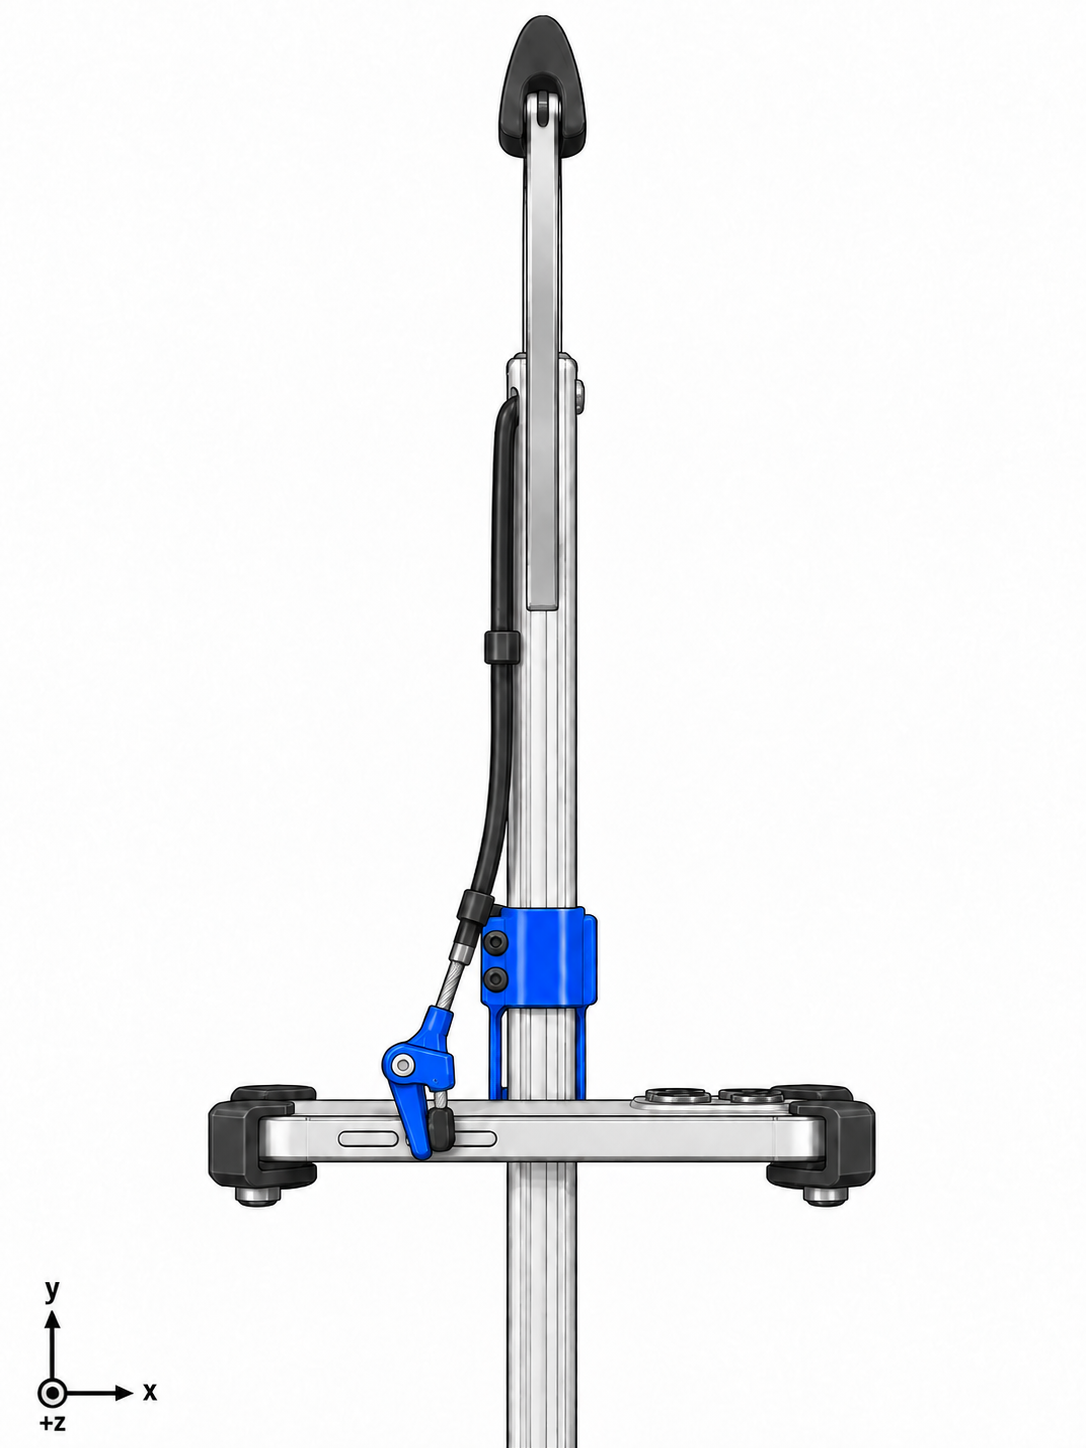
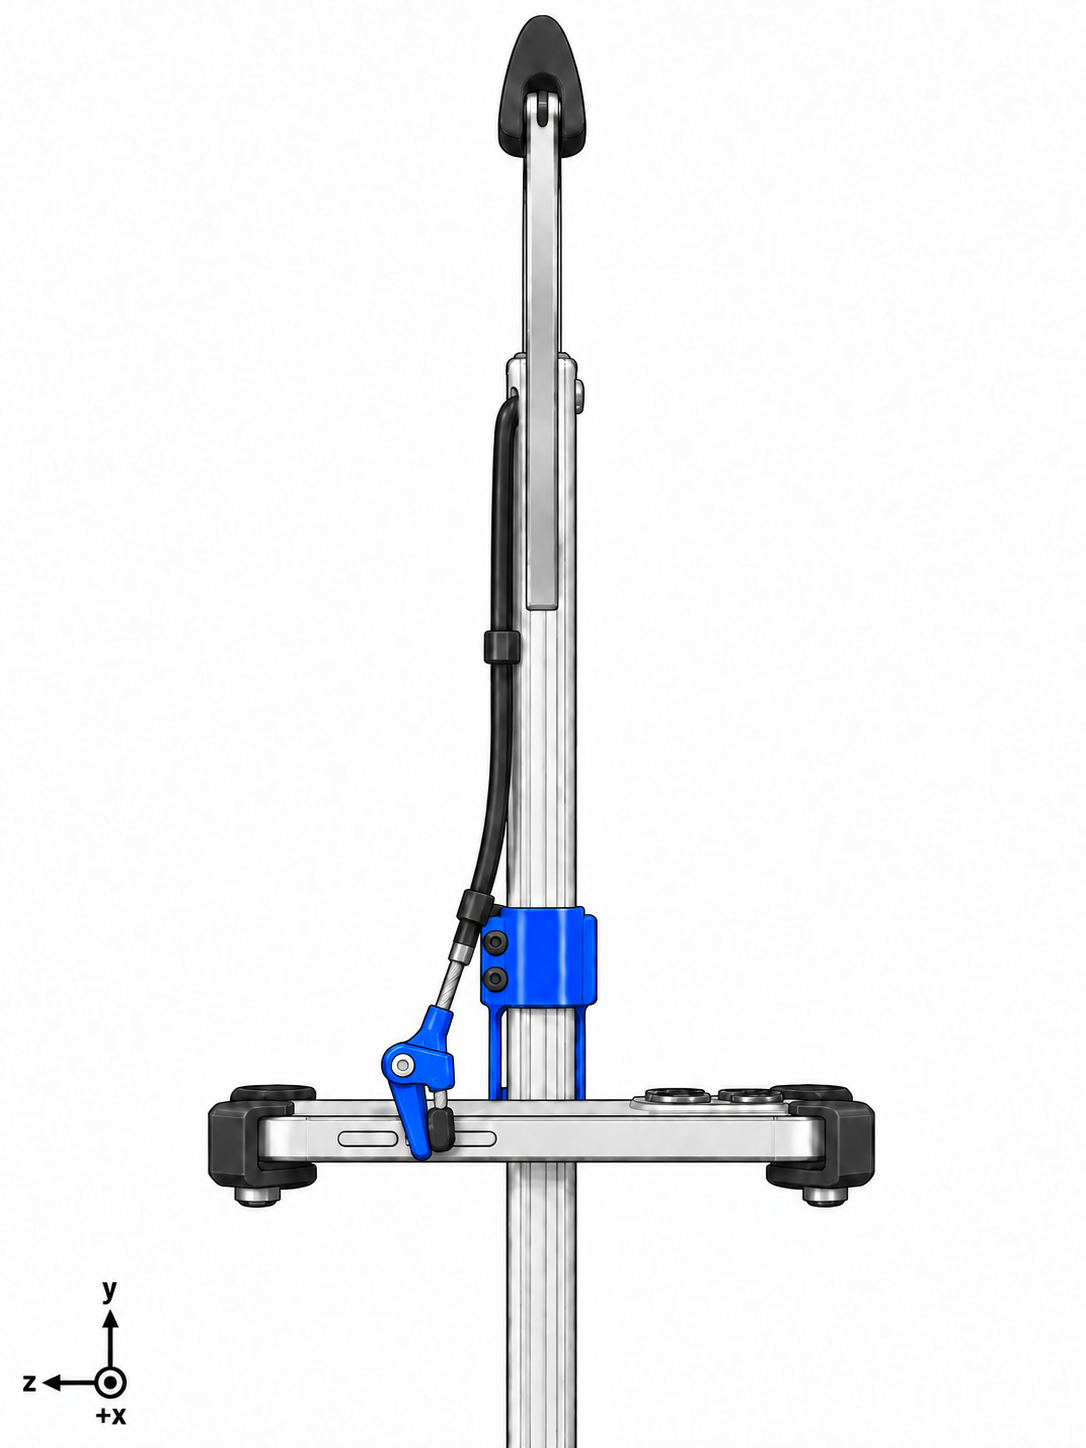
Rotate axis keys in CAD side views

diff --git a/AGENTS.md b/AGENTS.md
@@ -30,7 +30,7 @@ The aspiration is a useful, varied dataset and a humane path from field capture 
 
 Use the photo in `cad/reference/reacher-grabber.png` as the specific grabber geometry. The iPhone belongs on the straight neck below the claw fork in a removable, GoPro-like harness. Its rear cameras face along the shaft toward the claw tips and remain uncovered. Keep the phone and mount outside the moving claw sweep. Route the bicycle brake cable externally, with a housing anchor near the handle and a removable tab on the moving black trigger. Avoid drilling the stock handle or depending on its screw holes. A compact cable-driven lever at the phone should press a side volume rocker.
 
-For concept drawing pairs, positive x points right, positive y points up along the grabber shaft, and positive z comes out of the page toward the viewer. Negative z goes into the page. The second view rotates the object viewpoint 90 degrees around y. Keep each sheet to one view, with a small x/y/z axis glyph and a white background. These are concept illustrations, not proof of fit or working force transmission.
+For concept drawing pairs, positive y points up along the grabber shaft. In a views, positive x points right and positive z comes out of the page toward the viewer. In b views, the camera and axis key rotate 90 degrees about y: positive z points left and positive x comes out of the page. Keep each sheet to one view, with a small x/y/z axis glyph and a white background. These are concept illustrations, not proof of fit or working force transmission.
 
 Each image in `cad/renders/` has an adjacent `.spec.json` file. Treat these sidecars as the record of user-provided positioning and component requirements when revising or replacing a drawing. Update the relevant sidecar whenever the user adds a constraint. In assembly and phone-mount a views, place the phone to the positive-x side and into negative z so its near thin long edge rests against the neck support while its short charging-port edge remains visible. Keep the earlier centered phone placement in 1b and 2b; the a-view translation was requested only for 1a and 2a. The b views turn 90° around the shaft and show the phone's long edge. In the rotated complete and handle views, the blue upper handle head is visible while the black squeeze trigger is occluded.
 

diff --git a/cad/renders/README.md b/cad/renders/README.md
@@ -1,6 +1,6 @@
 # Reacher retrofit concept drawings
 
-These six views are based on the [specific reacher-grabber photo](../reference/reacher-grabber.png). In every drawing the long shaft is parallel to positive y, positive x points right, and positive z comes out of the page toward the viewer. Each **b** view illustrates an intended 90° change of viewpoint around y; the object is not laid on its side. The latest phone translation applies only to 1a and 2a; 1b and 2b retain their earlier centered placement, so these sketches are not yet geometrically consistent CAD projections.
+These six views are based on the [specific reacher-grabber photo](../reference/reacher-grabber.png). In every drawing the long shaft is parallel to positive y. In the **a** views, positive x points right and positive z comes out of the page toward the viewer. In the **b** views, the axis key rotates with the intended 90° viewpoint change about y: positive z points left and positive x comes out of the page. The object is not laid on its side. The latest phone translation applies only to 1a and 2a; 1b and 2b retain their earlier centered placement, so these sketches are not yet geometrically consistent CAD projections.
 
 | View | Focus |
 | --- | --- |
